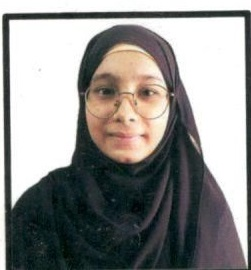
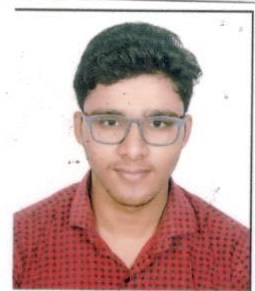
feat: update photo import logic to support multiple source directories and remove unused images

diff --git a/packages/db/prisma/import-students.ts b/packages/db/prisma/import-students.ts
@@ -90,16 +90,20 @@ function copyLegacyPhoto(branchCode: string, student: StudentCSV, photoPath: str
   const target = path.join(publicDir, photoPath.replace(/^\//, ""));
   if (fs.existsSync(target)) return;
 
-  const legacyDir = path.join(publicDir, branchCode);
-  if (!fs.existsSync(legacyDir)) return;
+  const sourceDirs = [
+    path.join(publicDir, branchCode),
+    path.join(publicDir, "Scan Student Photo DS"),
+  ];
+  const sourceDir = sourceDirs.find((directory) => fs.existsSync(directory));
+  if (!sourceDir) return;
   const cardNumber = Number(getCardNumber(student));
-  const legacyPhoto = fs.readdirSync(legacyDir).find((file) =>
+  const legacyPhoto = fs.readdirSync(sourceDir).find((file) =>
     new RegExp(`^${branchCode} (?:${cardNumber}|${rowNumber})(?:[ .]|$)`, "i").test(file)
   );
   if (!legacyPhoto) return;
 
   fs.mkdirSync(path.dirname(target), { recursive: true });
-  fs.copyFileSync(path.join(legacyDir, legacyPhoto), target);
+  fs.copyFileSync(path.join(sourceDir, legacyPhoto), target);
 }
 
 async function importStudentsFromCSV(csvFilePath: string) {
